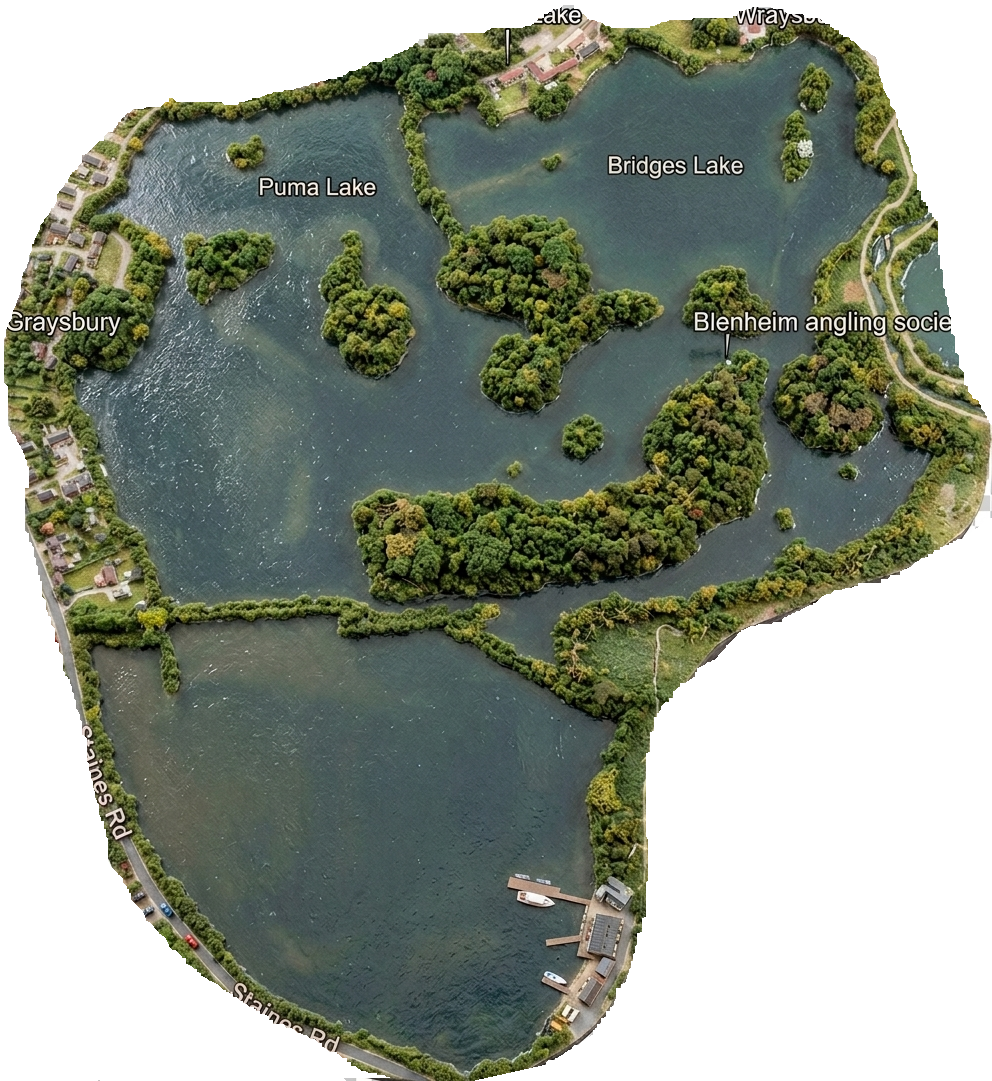
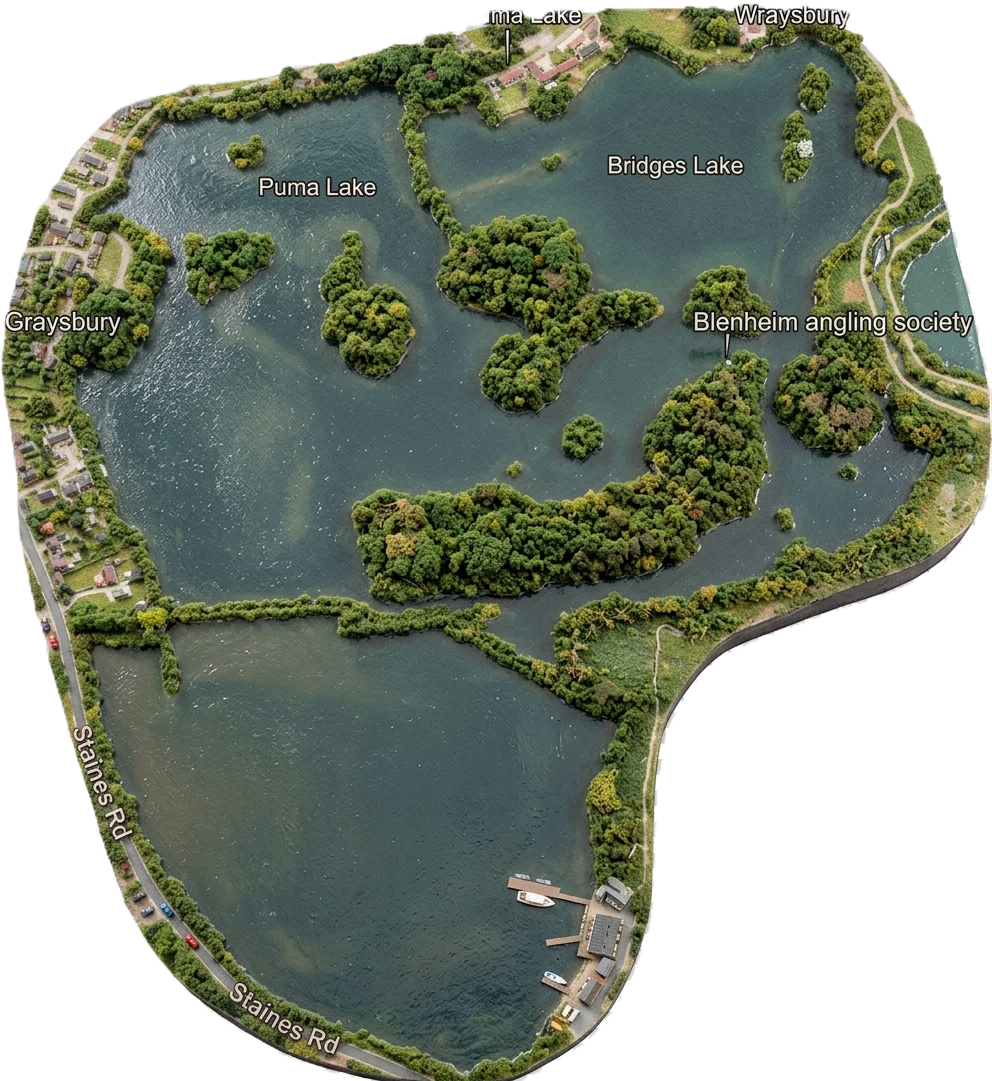
Update Wraysbury lake image and increase card image height

diff --git a/index.html b/index.html
@@ -4,7 +4,7 @@
     <meta charset="UTF-8">
     <meta name="viewport" content="width=device-width, initial-scale=1.0">
     <title>Carp Fishing Tycoon</title>
-    <link rel="stylesheet" href="css/style.css?v=20">
+    <link rel="stylesheet" href="css/style.css?v=21">
     <link rel="stylesheet" href="css/anglers.css?v=15">
 </head>
 <body>
@@ -225,7 +225,7 @@
     <script src="js/breeding.js?v=13"></script>
     <script src="js/finance.js?v=13"></script>
     <script src="js/dashboard.js?v=18"></script>
-    <script src="js/lakes.js?v=21"></script>
+    <script src="js/lakes.js?v=22"></script>
     <script src="js/welcome-entry.js?v=17"></script>
     <script src="js/staff.js?v=14"></script>
     <script src="js/minigame-duckhunt.js?v=3"></script>
